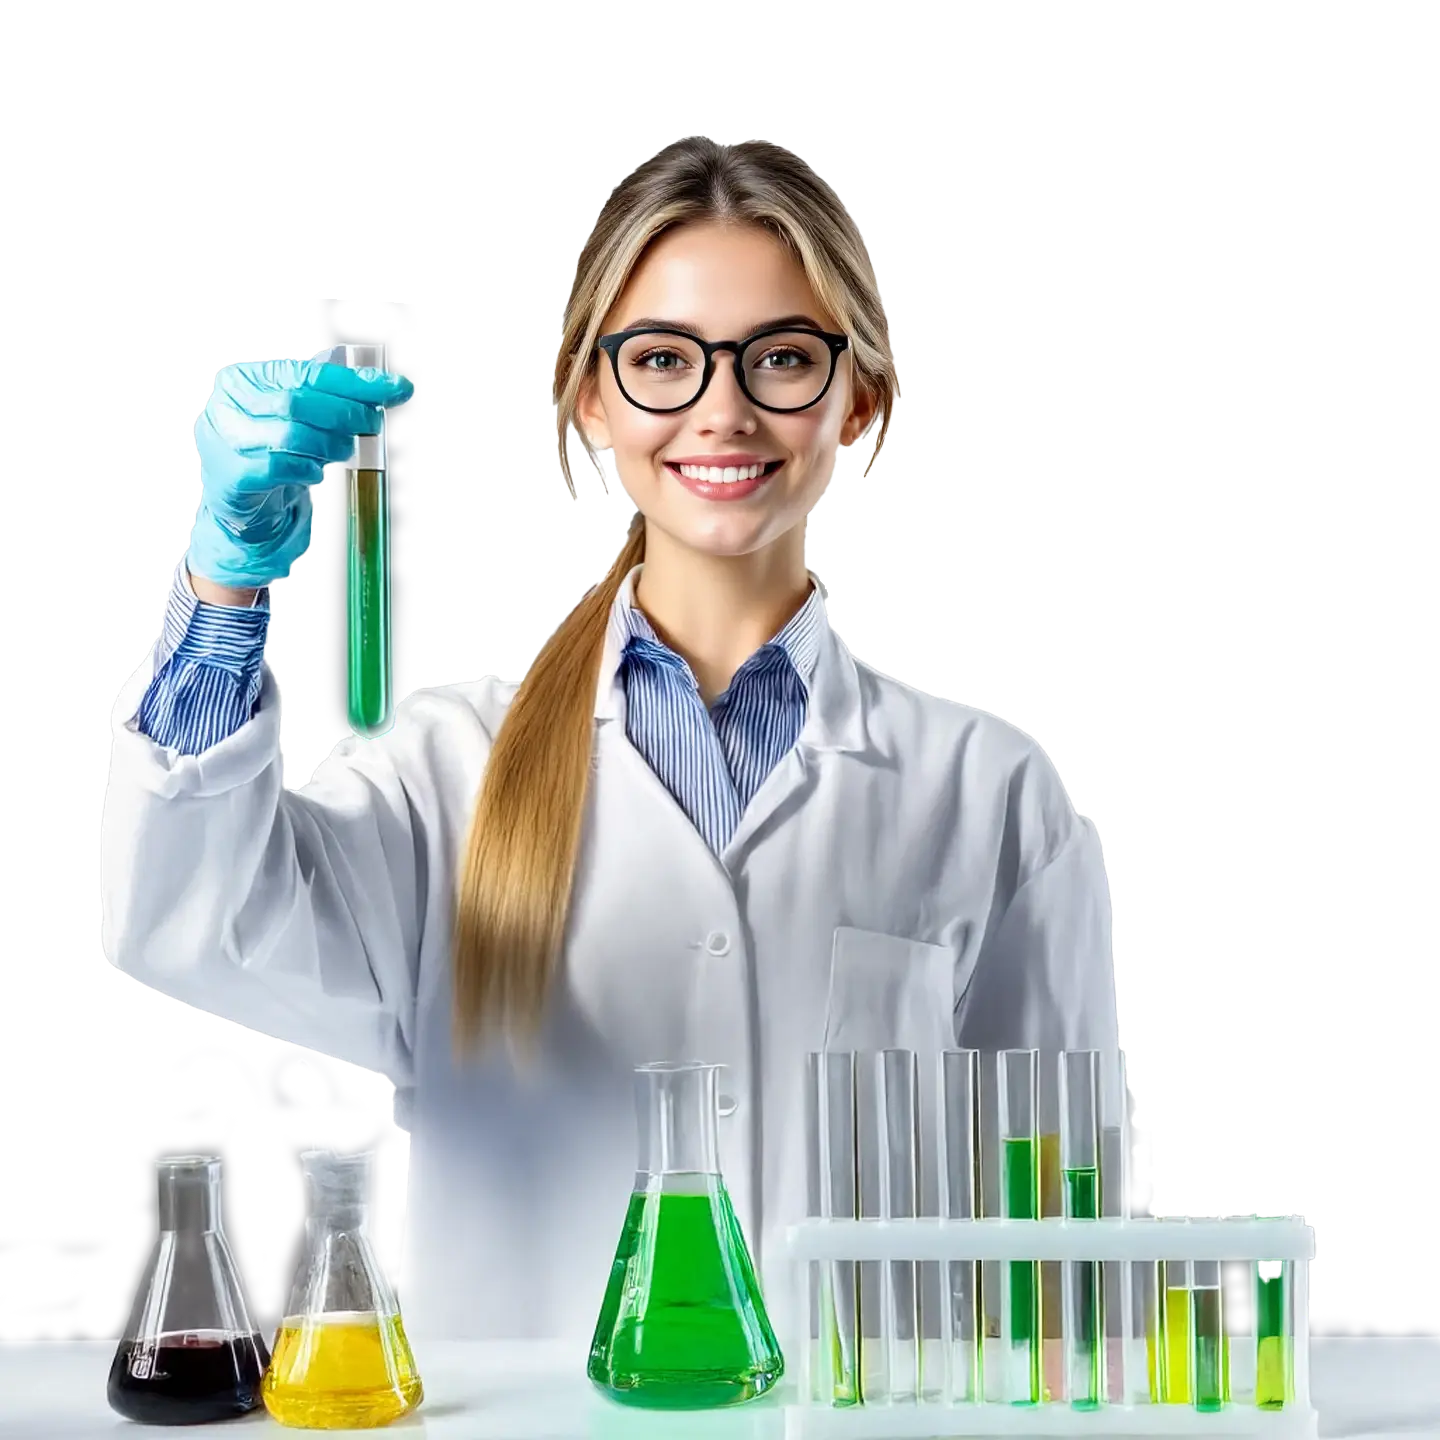
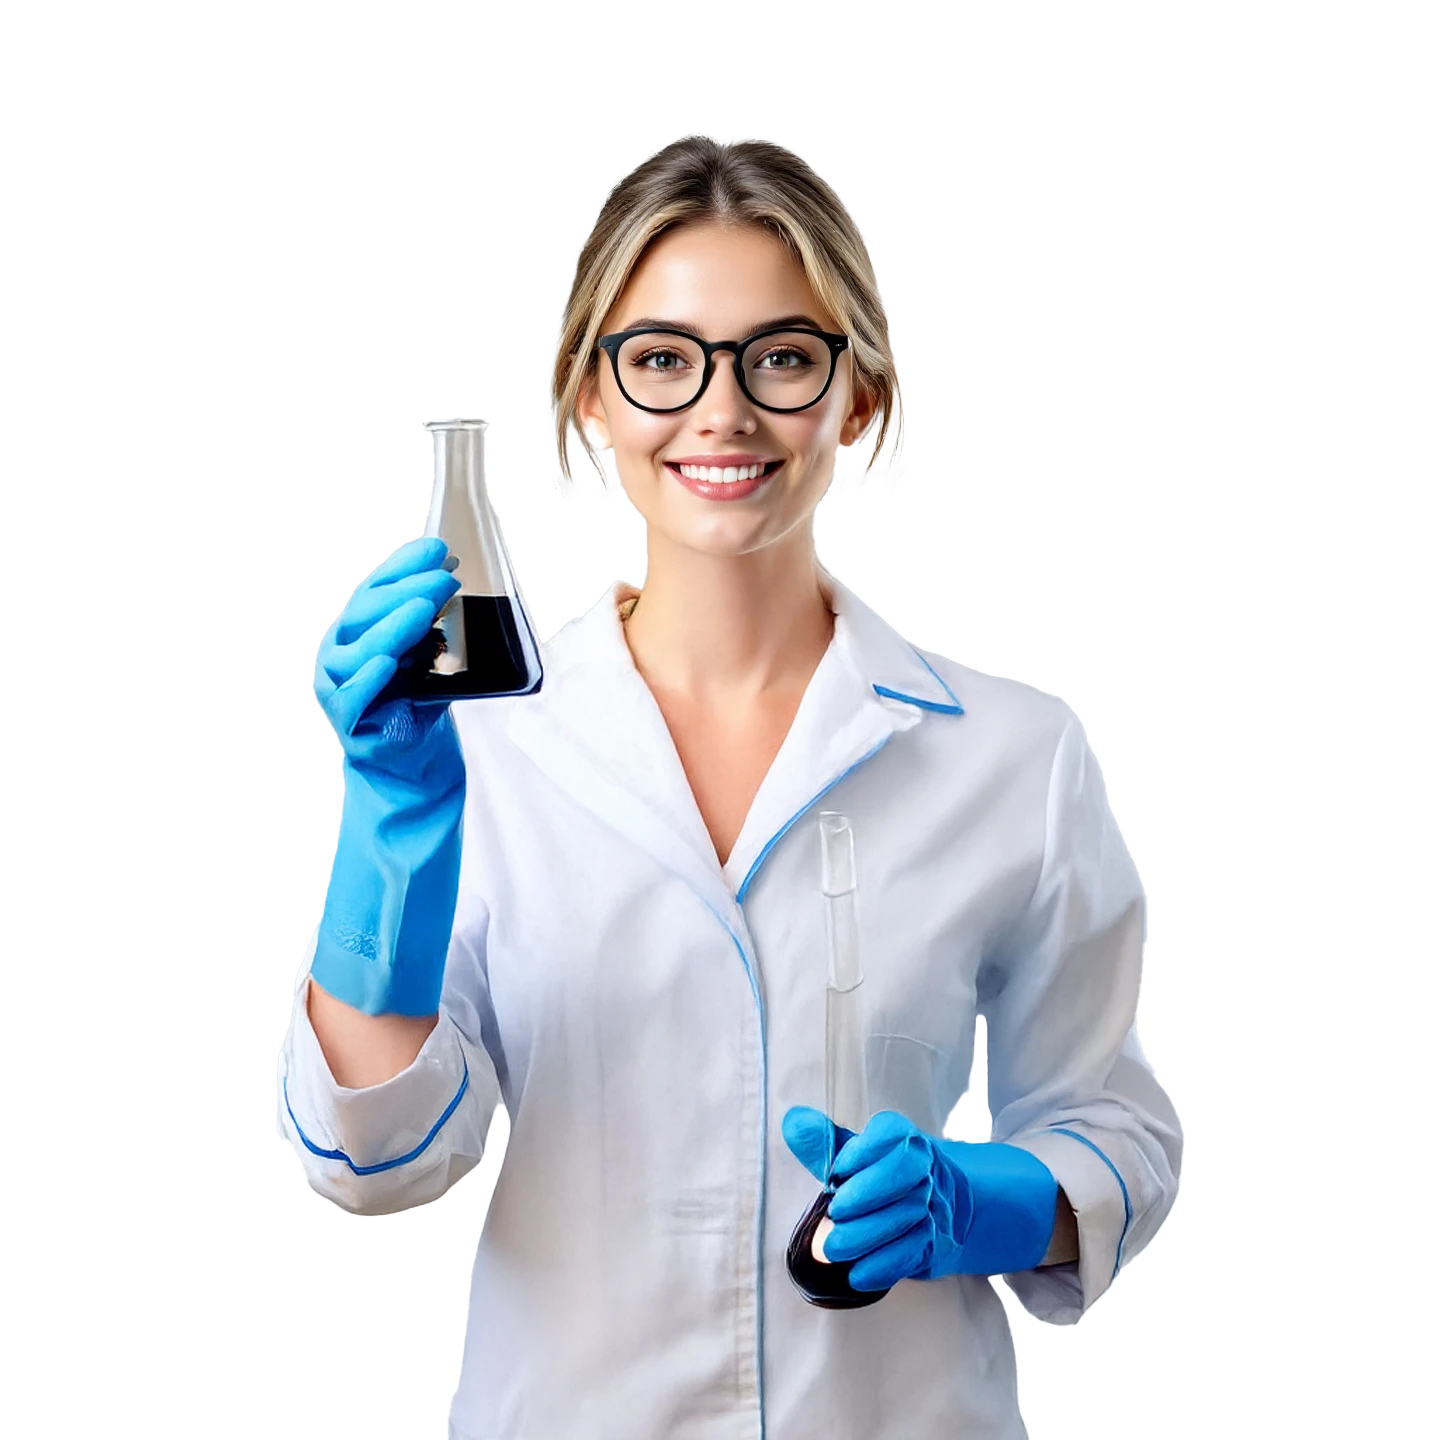
add new photos

diff --git a/src/constants/whatIsCollegData.tsx b/src/constants/whatIsCollegData.tsx
@@ -24,7 +24,7 @@ export const whatIsCollegData: Slide[] = [
     {
         kind: 'hero',
         image: 'woman.webp',
-        alt: 'What is Colleg image',
+        alt: 'Studentin am Kolleg',
     },
 
     /* -------------------------------------------- BAUTECHNIK */
@@ -111,7 +111,7 @@ export const whatIsCollegData: Slide[] = [
                 </p>
             </>
         ),
-        image: 'chemie-mirrored.webp',
+        image: 'woman-chemie.webp',
         alt: 'Kolleg Chemie',
         classNames: { container: 'bg-yellow-600' },
     },
@@ -148,7 +148,7 @@ export const whatIsCollegData: Slide[] = [
                 </p>
             </>
         ),
-        image: 'woman.webp',
+        image: 'woman-it.webp',
         alt: 'Technik & Informatik',
         classNames: { container: 'bg-green-600' },
     },

diff --git a/src/components/visual/SplitHeroVideo.tsx b/src/components/visual/SplitHeroVideo.tsx
@@ -4,11 +4,13 @@ import Hls from 'hls.js';
 
 interface Props {
     src: string;
+    width?: number | string;
+    height?: number | string;
     poster?: string;
     className?: string;
 }
 
-export default function SplitHeroVideo({ src, poster, className = '' }: Props) {
+export default function SplitHeroVideo({ src, width, height, poster, className = '' }: Props) {
     const videoRef = useRef<HTMLVideoElement>(null);
 
     useEffect(() => {
@@ -46,7 +48,7 @@ export default function SplitHeroVideo({ src, poster, className = '' }: Props) {
     return (
         <video
             ref={videoRef}
-            className={`w-full h-full object-cover ${className}`}
+            className={`w-full max-h-[200vh] object-cover ${className}`}
             muted
             loop
             controls
